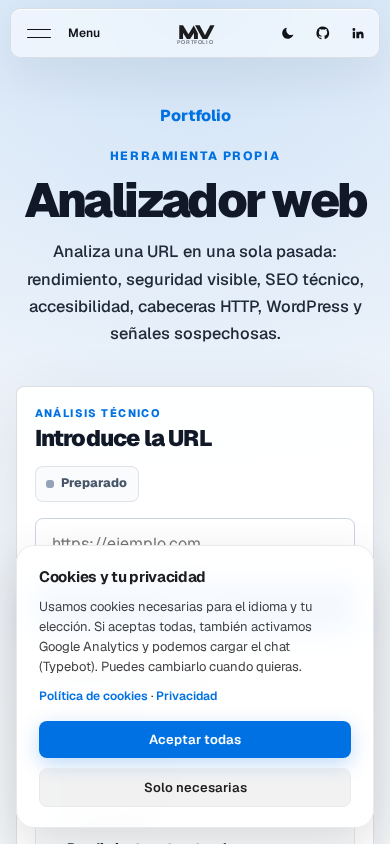
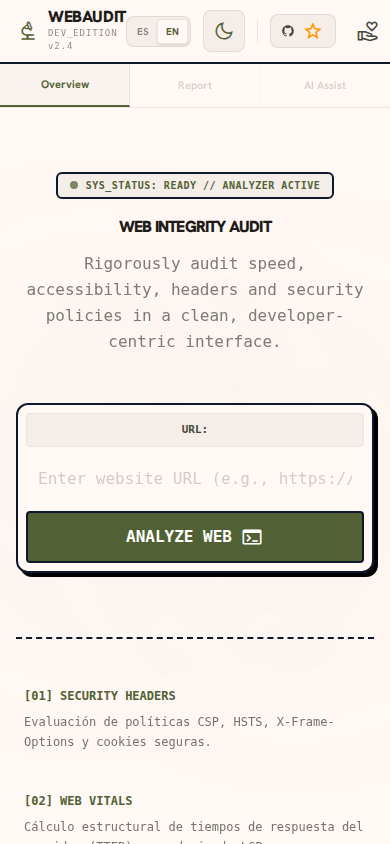
fix: recapture web-analyzer from standalone vercel app

diff --git a/sanity/seed-case-study-web-analyzer.ts b/sanity/seed-case-study-web-analyzer.ts
@@ -71,19 +71,19 @@ async function main() {
 		},
 		hice: {
 			title: 'Lo que hice',
-			bodyHtml: `<p><strong>Motor de auditoría:</strong> arquitectura SvelteKit con jobs asíncronos (202 + polling), auditor de entrega HTTP y auditor visual con Chromium/Playwright: consola JS, viewports móvil/tablet/desktop, cookies y accesibilidad.</p><p><strong>Seguridad operativa:</strong> validación anti-SSRF (loopback, RFC1918, IPs codificadas), límites de bytes en respuestas (4 MB HTML / 2 MB recursos) y rate limiting por IP (10 análisis/hora) con persistencia en fichero temporal.</p><p><strong>Producto y captación:</strong> UI estilo consola técnica, modo reparación con prompts por hallazgo, envío de informes por email vía Resend, integración en <a href="https://moisesvalero.es/tools/analizador-web" rel="noopener noreferrer">moisesvalero.es/tools/analizador-web</a> y despliegue standalone en Vercel.</p>`
+			bodyHtml: `<p><strong>Motor de auditoría:</strong> arquitectura SvelteKit con jobs asíncronos (202 + polling), auditor de entrega HTTP y auditor visual con Chromium/Playwright: consola JS, viewports móvil/tablet/desktop, cookies y accesibilidad.</p><p><strong>Seguridad operativa:</strong> validación anti-SSRF (loopback, RFC1918, IPs codificadas), límites de bytes en respuestas (4 MB HTML / 2 MB recursos) y rate limiting por IP (10 análisis/hora) con persistencia en fichero temporal.</p><p><strong>Producto publicado:</strong> UI estilo consola técnica en <a href="https://web-analyzer-three.vercel.app" rel="noopener noreferrer">web-analyzer-three.vercel.app</a>, modo reparación con prompts por hallazgo, envío de informes por email vía Resend y una variante integrada en el portfolio.</p>`
 		},
 		hiceEn: {
 			title: 'What I built',
-			bodyHtml: `<p><strong>Audit engine:</strong> SvelteKit architecture with async jobs (202 + polling), HTTP delivery auditor, and visual auditor with Chromium/Playwright: JS console, mobile/tablet/desktop viewports, cookies, and accessibility.</p><p><strong>Operational security:</strong> anti-SSRF validation (loopback, RFC1918, encoded IPs), byte limits on responses (4 MB HTML / 2 MB resources), and per-IP rate limiting (10 analyses/hour) with file-based persistence.</p><p><strong>Product and leads:</strong> technical console UI, repair mode with per-finding prompts, email reports via Resend, integration at <a href="https://moisesvalero.es/tools/analizador-web" rel="noopener noreferrer">moisesvalero.es/tools/analizador-web</a>, and standalone Vercel deployment.</p>`
+			bodyHtml: `<p><strong>Audit engine:</strong> SvelteKit architecture with async jobs (202 + polling), HTTP delivery auditor, and visual auditor with Chromium/Playwright: JS console, mobile/tablet/desktop viewports, cookies, and accessibility.</p><p><strong>Operational security:</strong> anti-SSRF validation (loopback, RFC1918, encoded IPs), byte limits on responses (4 MB HTML / 2 MB resources), and per-IP rate limiting (10 analyses/hour) with file-based persistence.</p><p><strong>Shipped product:</strong> technical console UI at <a href="https://web-analyzer-three.vercel.app" rel="noopener noreferrer">web-analyzer-three.vercel.app</a>, repair mode with per-finding prompts, email reports via Resend, plus an integrated variant on the portfolio.</p>`
 		},
 		resultado: {
 			title: 'Resultado',
-			bodyHtml: `<p>Una herramienta que uso como <strong>demo interactiva en el portfolio</strong> y como auditor real antes de entregar proyectos web. No sustituye un pentest, pero condensa en minutos señales que suelen tardar horas en revisar a mano.</p><p>Proyecto personal que demuestra backend serverless serio en SvelteKit, pensamiento de seguridad y UX orientada a desarrolladores y equipos que ya trabajan con agentes de IA para corregir hallazgos.</p>`
+			bodyHtml: `<p>Una herramienta que despliego como <strong>producto standalone</strong> y reutilizo como auditor antes de entregar proyectos web. No sustituye un pentest, pero condensa en minutos señales que suelen tardar horas en revisar a mano.</p><p>Proyecto personal que demuestra backend serverless serio en SvelteKit, pensamiento de seguridad y UX orientada a desarrolladores y equipos que ya trabajan con agentes de IA para corregir hallazgos.</p>`
 		},
 		resultadoEn: {
 			title: 'Outcome',
-			bodyHtml: `<p>A tool I use as an <strong>interactive demo on my portfolio</strong> and as a real auditor before shipping web projects. It does not replace a pentest, but it compresses into minutes signals that often take hours to review manually.</p><p>A personal project that shows serious SvelteKit serverless backend work, security thinking, and UX aimed at developers and teams already using AI agents to fix findings.</p>`
+			bodyHtml: `<p>A tool I ship as a <strong>standalone product</strong> and reuse as a real auditor before delivering web projects. It does not replace a pentest, but it compresses into minutes signals that often take hours to review manually.</p><p>A personal project that shows serious SvelteKit serverless backend work, security thinking, and UX aimed at developers and teams already using AI agents to fix findings.</p>`
 		},
 		stack: [
 			'SvelteKit',
@@ -109,7 +109,7 @@ async function main() {
 			'oxlint',
 			'Zod'
 		],
-		liveUrl: 'https://moisesvalero.es/tools/analizador-web',
+		liveUrl: 'https://web-analyzer-three.vercel.app',
 		repoUrl: 'https://github.com/moisesvalero/web-analyzer',
 		checklistPublicacion: {
 			tituloYSlug: true,

diff --git a/sanity/README.md b/sanity/README.md
@@ -109,7 +109,7 @@ Editar el array `FEATURED` en ese archivo si cambia la selección.
 
 | Script | Propósito |
 |--------|-----------|
-| `scripts/capture-web-analyzer-screenshots.mjs` | Regenera PNG del analizador web (home, móvil, informe) |
+| `scripts/capture-web-analyzer-screenshots.mjs` | Capturas del **standalone** `web-analyzer-three.vercel.app` (no el del portfolio) |
 
 ---
 